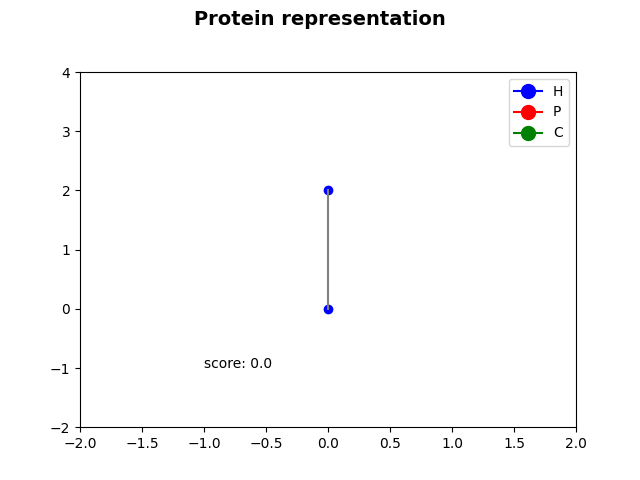
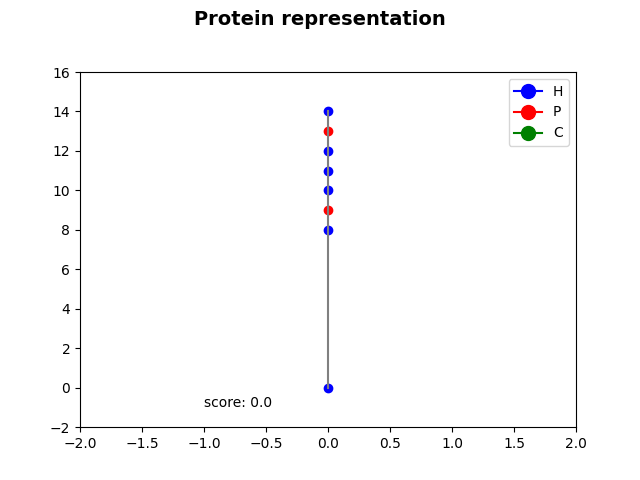
fixed init breadthfirst

diff --git a/code/algorithms/breadthfirst.py b/code/algorithms/breadthfirst.py
@@ -33,52 +33,57 @@ class Breadthfirst:
             state_list = state.split(",")
             state_list.pop()
 
-            print("depth: ", depth)
-            print("state, state_list en self.states: ", len(state), len(state_list), len(self.states))
+            # *** create starting molecule
 
-            # add only state options that have the length of the whole protein
-            if len(state_list) == depth-1:
-                print("in if *********")
-                self.states.append(state_list)
-                print("self.states if:", self.states)
-                                                            #create starting molecule
-            if len(state) < depth:
-                print("len self.states: ", len(state))
+            # breadth first algorithm
+            if len(state_list) < depth - 1:
                 # make copy of this state for each option
                 for i in ["-2", "-1", "1", "2"]:
                     child = copy.deepcopy(state)
                     child += i
+                    # *** evt probeer eiwit hier
                     queue.put(child + ",")
-        
-        print("self.states:", self.states)
+            else:
+                self.states.append(state_list)
+                
+                      
+        print("self.states:", len(self.states))
 
-    def try_every_fold(self):
-        """
-        Tests all states of folding
-        """
-        # loop over every state of states
-        for state in states:
-            # make a protein without folds
-            protein = Protein(data)
+    # def try_every_fold(self):
+    #     """
+    #     Tests all states of folding
+    #     """
+    #     possible_proteins = []
+
+    #     # loop over every state of states
+    #     for state in states:
+    #         # make a protein without folds
+    #         protein = Protein(data)
+
+    #         # start location
+    #         current_location = [0,0]
             
-            # loop over aminoacids of protein 
-            for i, aminoacid in enumerate(protein.aminoacids):
-                # calculate future location with this fold
-                # assign_location(current_location, fold)
+    #         # loop over aminoacids of protein 
+    #         for i, aminoacid in enumerate(protein.aminoacids):
+    #             fold = state[i]
 
-                # if future_location not in occupied:
-                    # fold this aminoacid with the corresponding fold 
-                    # aminoacid.fold = state[i] 
-                    # use assign_location?
-                    # update (current) location, occupied etc.
+    #             # calculate future location with this fold
+    #             future_location = self.assign_location(current_location, fold)
 
-                # else:
-                    # go to next state
+    #             # if location is free, fold aminoacid and update information
+    #             if future_location not in protein.occupied:
+    #                 aminoacid.fold = fold
+    #                 aminoacid.location = future_location
+    #                 protein.occupied.append(future_location)
+    #                 current_location = future_location
+    #             else:
+    #                 break 
 
-            # save this (state of the) protein
-            # calculate score of this protein 
+    #         # save this (state of the) protein
+    #         possible_proteins
+    #         # calculate score of this protein 
         
-        pass
+    #     pass
 
 
     # def assign_location(self, location, fold):   
@@ -98,3 +103,10 @@ class Breadthfirst:
     #         new_value[1] -= 1
         
     #     return new_value        
+
+
+    # tips van bas:
+    # states niet als self variable maar als return
+    # later toepassen: 
+        # gelijk testen of deze state kan en al gaan vouwen, zodat je daaropvolgende states kan elimineren (prunen)
+        # kijken of dit sneller is dan alles testen

diff --git a/code/algorithms/tool.py b/code/algorithms/tool.py
@@ -1,0 +1,50 @@
+from code.classes.protein import Protein
+
+class Tool:
+    def __init__:
+        pass
+    
+    def assign_location(self, location, fold):   
+        """
+        Assign the location of a new aminoacid based on the fold
+        """  
+        new_value = copy.deepcopy(location)
+
+        # change location value based on fold
+        if fold == 1:
+            new_value[0] += 1
+        elif fold == -1:
+            new_value[0] -= 1
+        elif fold == 2:
+            new_value[1] += 1
+        elif fold == -2:
+            new_value[1] -= 1
+        
+        return new_value
+
+    def add_folds(self):
+    """
+    Adds folds to an existing aminoacid sequence
+    """
+    for aminoacid in self.protein.aminoacids:
+        # folds the next aminoacid
+        self.create_fold(aminoacid)
+        
+        # restarts function when protein blocked itself of
+        if self.protein.terminate == True:
+            print("Protein folded in itself, collision on:", aminoacid.location, "creating new protein.")
+            return False
+
+    def create_fold(self, aminoacid):
+        """
+        Picks a fold for the next aminoacid
+        COPIED FROM RANDOMISE
+        """
+        # assign a fold of 0 for the last aminoacid
+        if aminoacid.aminoacid_number == len(self.data) - 1:
+            return
+        # assign a random fold for the rest of the aminoacids
+        else:
+            #return folds
+            self.select_best_fold(aminoacid) #of self.tryout_new_location(aminoacid)  
+        

diff --git a/code/algorithms/greedy.py b/code/algorithms/greedy.py
@@ -83,7 +83,7 @@ class Greedy():
 
     def check_potential_fold(self, fold, possible_loc, aminoacid, neighbours_folds):
         """
-        Check if this 
+        Count total neighbours of a fold
         """
             
         nucleotides = ['H', 'P', 'C']
